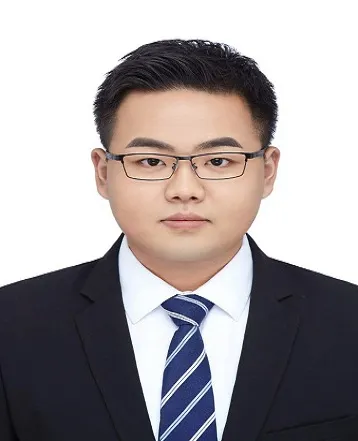
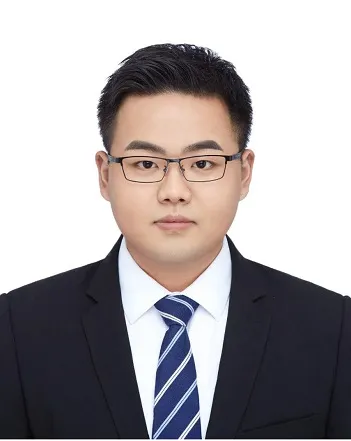
update daichi zhang webp

diff --git a/people.html b/people.html
@@ -255,7 +255,7 @@
                       网络空间安全
                     </div>
                   </a>
-                  <img class="card-img-top" alt="Photo" src="./img/微信图片_20200824170846.webp">
+                  <img class="card-img-top" alt="Photo" src="./img/people2/DaichiZhang.webp">
 
                   <!-- <img class="card-img-top" alt="Photo" src="./img/people2/DaichiZhang.webp"> -->
                   <div class="card-body">
